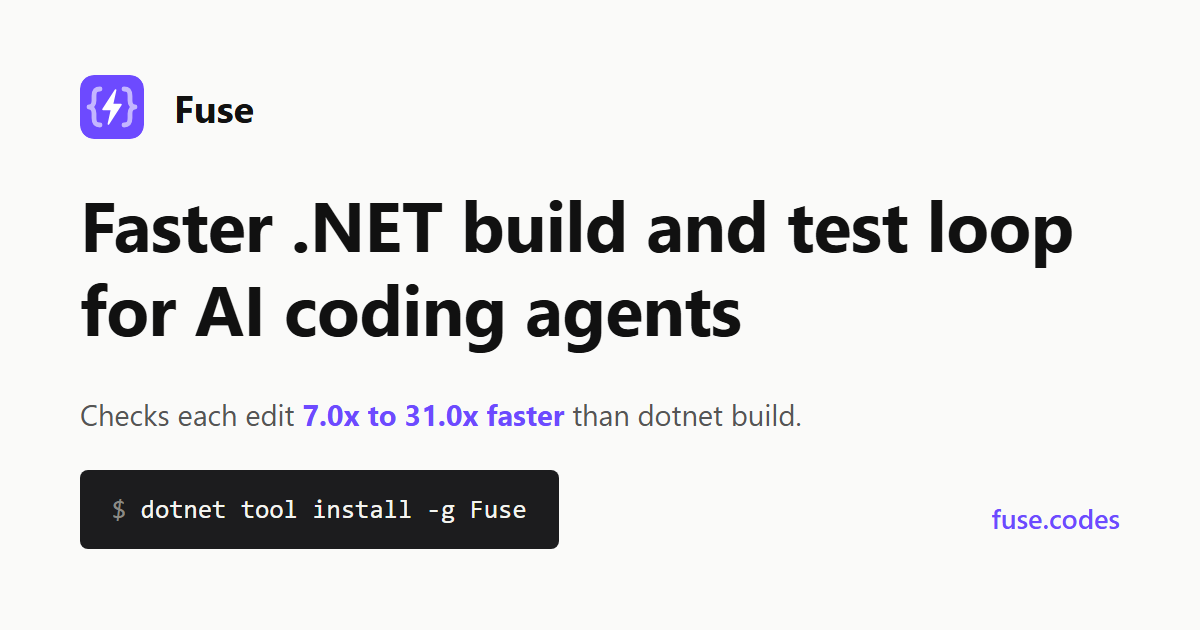
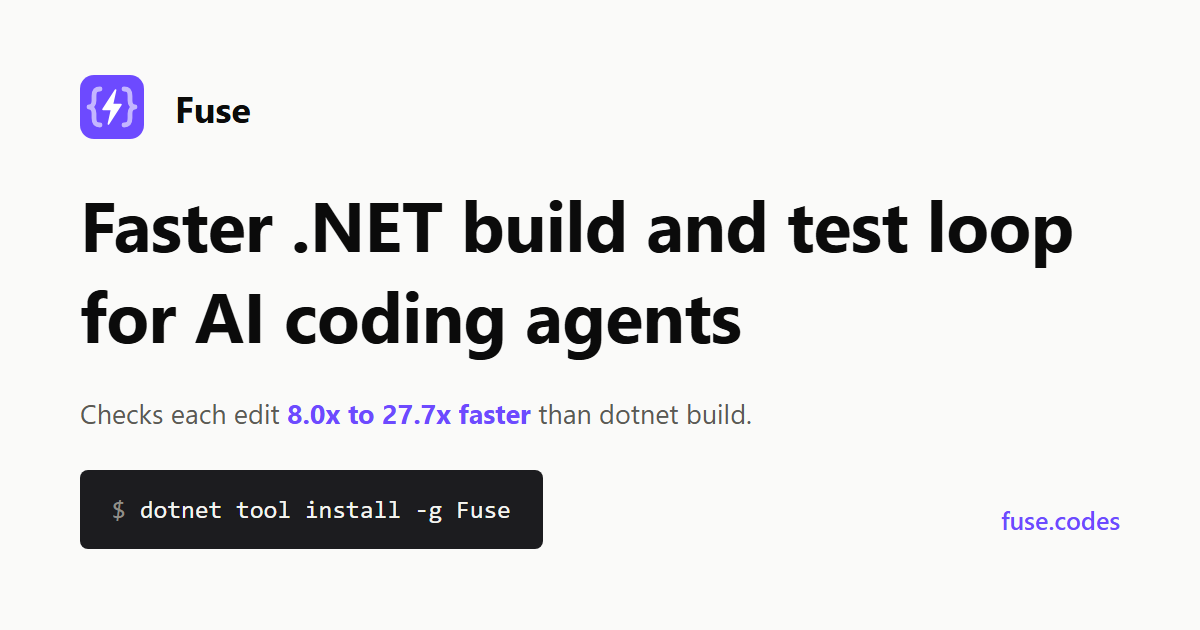
Docs: evals, README and overview for 5.7.0; a new share image
The evals page matches the eval code and workflows, and says a capped
answer is classified on its results file. The README, the docs overview
and llms.txt quote the 5.7.0 result files. CONTRIBUTING sends evals to
GitHub Actions through targeted runs. HEAD is named HEAD, not the last
commit. The share image quotes the 5.7.0 check range.

Assisted-by: Claude Code (claude-opus-5-5)
Assisted-by: Muse Code (muse-spark-1.3-contributor)

diff --git a/site/docs/evals.html b/site/docs/evals.html
@@ -137,7 +137,7 @@
 dotnet run --project evals/Fuse.Evals -c Release -- correctness fixture --mutations 2</code></pre>
     <pre data-label="Output"><code>repo &lt;fuse&gt;\evals\.work\fixture, solution Fixture.sln: 3 code project(s), 2 test project(s); fuse &lt;fuse&gt;\src\Fuse\bin\Release\net10.0\fuse.exe
 [correctness] fixture: HEAD build...
-[correctness] HEAD build exit 0, 0 error(s), 1.1 s
+[correctness] HEAD build exit 0, 0 error(s) in the truth (local)
 [correctness] fuse warm-up: fuse: no errors introduced (0 file(s) checked) (1158 ms)
 [correctness] 1/2 agree-clean  truth=  0 fuse=  0   5184 ms  change-return-type src/Services/ReportBuilder.cs
 [correctness] 2/2 agree        truth=  2 fuse=  4    505 ms  remove-member src/Services/OrderService.cs
@@ -177,7 +177,7 @@ usage: Fuse.Evals &lt;suite&gt; &lt;repo&gt; [--mutations N] [--seed S] [--solut
          the test rounds; agents, the multi-agent scenario after the cold checks and body edits
   --failed-rounds: for selection on fixture, three fix-and-rerun rounds with fuse test --failed afterwards
   --projects, --files, --changed: for scale, the fixture size: projects, files per project, changed files
-  clone: FluentValidation | NodaTime | Jellyfin | Polly, checked out at the pinned commit under
+  clone: NodaTime | Jellyfin | Polly, checked out at the pinned commit under
          %LOCALAPPDATA%/fuse/evals/repos (outside this repository, so its build settings do not leak in)
   clean: deletes %LOCALAPPDATA%/fuse/evals, which holds every checkout; the generated fixture in
          evals/.work/fixture and the result files in evals/results stay</code></pre>
@@ -240,7 +240,7 @@ usage: Fuse.Evals &lt;suite&gt; &lt;repo&gt; [--mutations N] [--seed S] [--solut
       <li>The truth side runs <code>dotnet build</code> on the solution with the case's edits, and takes the build's errors beyond HEAD's as the truth.</li>
       <li>The suite builds HEAD, then for each case makes the edits, runs <code>fuse check</code> on the edited files, resets the tree, and matches Fuse's errors with the truth by position (file, line and column).</li>
     </ol>
-    <p>A Fuse error at a truth position with a different id or message is a message mismatch. A Fuse error with no truth at its position is unverifiable when it is in a project MSBuild skipped because a project it references failed, deferred when the compiler skipped it (see <a href="benchmarks.html#reading-the-numbers">Benchmarks</a>), and contradicted otherwise. A truth error without a Fuse error at its position is missed. Each case gets a verdict:</p>
+    <p>A Fuse error at a truth position with a different id or message is a message mismatch. A Fuse error with no truth at its position is unverifiable when it is in a project MSBuild skipped because a project it references failed, deferred when the compiler skipped it (see <a href="benchmarks.html#reading-the-numbers">Benchmarks</a>), which includes the flow analysis errors the compiler places on a declaration (CS0161, CS0171, CS0177 and CS0843), and contradicted otherwise. A truth error without a Fuse error at its position is missed. Each case gets a verdict:</p>
     <table>
       <thead><tr><th scope="col">Verdict</th><th scope="col">Meaning</th></tr></thead>
       <tbody>
@@ -255,14 +255,14 @@ usage: Fuse.Evals &lt;suite&gt; &lt;repo&gt; [--mutations N] [--seed S] [--solut
       </tbody>
     </table>
 
-    <p>Each case also records what the check cost: how many files it checked, how many documents binding them bound, whether it bound whole projects, whether it answered from the answer it kept, and for how many files it reused the errors of an earlier check. A capped answer proves its completeness with its results file: the file holds every error the summary counts, and a missing file or a short count is a <code>results-incomplete</code> verdict rather than a silent gap.</p>
+    <p>Each case also records what the check cost: how many files it checked, how many documents binding them bound, whether it bound whole projects, whether it answered from the answer it kept, and for how many files it reused the errors of an earlier check. A capped answer proves its completeness with its results file: the file holds every error the summary counts, and a missing file or a short count is a <code>results-incomplete</code> verdict rather than a silent gap. When the file is complete, the case is classified on the file's errors, not on the ones the answer printed, so an error the answer left out of its printed list is not counted as missed.</p>
 
     <h3 id="test-selection">Test selection <a class="anchor" href="#test-selection" aria-label="Link to this section">#</a></h3>
     <p>The selection suite measures whether <code>fuse test</code> runs every test a change makes fail.</p>
     <ol>
       <li>The truth side builds the solution at HEAD, runs every test project with <code>dotnet test</code> one at a time, and stops when a test project writes no results, because a missing project would hide misses.</li>
       <li>Each case is one behavior edit in a method body of a code project: flipping a comparison, shifting an integer constant by one, dropping a statement, or negating a boolean return. An edit with which the solution does not build is skipped when the plan is drawn.</li>
-      <li>For each case, the truth side runs one <code>dotnet test</code> of the whole solution, as a user runs it after an edit: it builds what changed and runs the test projects in parallel. Its time is the <code>dotnet test</code> time the benchmarks quote. The truth is the tests that fail after the edit and did not fail at HEAD. A case whose run wrote fewer TRX files than HEAD's is listed in <code>projectsWithoutResults</code>.</li>
+      <li>For each case, the truth side runs one <code>dotnet test</code> of the whole solution, as a user runs it after an edit: it builds what changed and runs the test projects in parallel. Its time is the <code>dotnet test</code> time the benchmarks quote. The truth is the tests that fail after the edit and did not fail at HEAD. A case whose run produced fewer result units than HEAD's, TRX files or executed test assemblies on Microsoft.Testing.Platform, is listed in <code>projectsWithoutResults</code>.</li>
       <li>The suite builds HEAD, then for each case makes the edit, waits 500 ms, runs <code>fuse test</code>, and resets the tree.</li>
     </ol>
     <p>A case is <code>caught</code> when every truth failure is among the failures <code>fuse test</code> printed, <code>missed</code> when one is not, <code>no-failure</code> when the edit failed no test, <code>unverified</code> when a truth failure is not printed because <code>fuse test</code> cut its list of names (<code>... and N more</code>), and <code>results-incomplete</code> when a capped answer's results file does not hold every failure the summary counts.</p>
@@ -314,7 +314,7 @@ usage: Fuse.Evals &lt;suite&gt; &lt;repo&gt; [--mutations N] [--seed S] [--solut
     <p>The stop should deliver no stale error: the fix is already on disk when it runs, so anything it delivers beyond the current tree's errors is a defect. The result file records the post-edit, check and stop errors, whether the stop blocked, the stale errors it delivered, and whether it rechecked.</p>
 
     <h2 id="on-github-actions">On GitHub Actions <a class="anchor" href="#on-github-actions" aria-label="Link to this section">#</a></h2>
-    <p>Times depend on what else the machine is doing, so the recorded results come from <code>.github/workflows/evals.yml</code>, which runs every job on a fresh <code>windows-latest</code> runner that runs nothing else. Add the <code>evals</code> label to a pull request to run the latency and analyzers suites on the four open-source repositories. Start the workflow from the Actions tab to choose: its <code>repos</code> input names the repositories as a JSON array, default <code>["FluentValidation", "NodaTime", "Jellyfin", "Polly"]</code>, and its <code>suites</code> input names the suites as a JSON array, default <code>["correctness", "selection", "latency"]</code>. To run one suite on one repository, start it with <code>repos</code> as <code>["NodaTime"]</code> and <code>suites</code> as <code>["latency"]</code>. The attribution, analyzers and scale suites run only when the suites input names them. Its <code>fresh-truth</code> input ignores the cached truth, for a run after a flaky test made a truth answer wrong. <a href="#what-to-run">What to run</a> says which suites a change needs.</p>
+    <p>Times depend on what else the machine is doing, so the recorded results come from <code>.github/workflows/evals.yml</code>, which runs every job that measures on a fresh <code>windows-latest</code> runner that runs nothing else. Add the <code>evals</code> label to a pull request to run the latency and analyzers suites on the four open-source repositories. Start the workflow from the Actions tab to choose: its <code>repos</code> input names the repositories as a JSON array, default <code>["FluentValidation", "NodaTime", "Jellyfin", "Polly"]</code>, and its <code>suites</code> input names the suites as a JSON array, default <code>["correctness", "selection", "latency"]</code>. To run one suite on one repository, start it with <code>repos</code> as <code>["NodaTime"]</code> and <code>suites</code> as <code>["latency"]</code>. The attribution, analyzers and scale suites run only when the suites input names them. Its <code>fresh-truth</code> input ignores the cached truth, for a run after a flaky test made a truth answer wrong. Its <code>latency_parts</code> input names the latency parts as a JSON array, default <code>["main", "agents"]</code>, and one part alone skips the merge. <a href="#what-to-run">What to run</a> says which suites a change needs.</p>
     <ul>
       <li><strong>Build.</strong> One job builds Fuse and publishes the native client, and every other job downloads that build, so every result file records the same <code>fuseBuild</code>.</li>
       <li><strong>Latency.</strong> Two jobs per repository run the latency suite with the native client: one the checks and the test rounds, followed by the checks alone with the managed client on the same runner, the other the multi-agent scenario. A merge job puts the multi-agent result into the first job's file.</li>
@@ -322,7 +322,7 @@ usage: Fuse.Evals &lt;suite&gt; &lt;repo&gt; [--mutations N] [--seed S] [--solut
       <li><strong>Scale.</strong> One job generates the scale fixture, changes a quarter of its files, and measures one cold check with the native client, uploading <code>evals-scale-fixture-scale</code>. Like the attribution job, it runs only when the suites input names it.</li>
       <li><strong>Measure.</strong> One job per suite and repository merges the shards with the cached truth, measures Fuse on its own runner, writes the result file, and saves the merged truth to the cache. Each suite and repository is its own call of <code>.github/workflows/evals-suite.yml</code>, so a measure job starts as soon as its own shards finish, not when the slowest repository's do.</li>
     </ul>
-    <p>A measure or latency job's artifact <code>evals-&lt;repo&gt;-&lt;suite&gt;</code> holds <code>results/</code>, the file to commit to <code>evals/results</code> in place of the older one, <code>managed/</code>, the managed client's latency file, which goes to <code>evals/results/managed</code> in the same way and is the comparison <a href="benchmarks.html#native-client">Benchmarks</a> quotes, <code>truth/</code>, the merged truth, and <code>runner.txt</code>, which names the runner image, processor, memory and SDK. Each truth shard's artifact holds its shard and its own <code>runner.txt</code>, and a latency artifact also holds <code>runner-agents.txt</code>, the runner of the multi-agent scenario. Runners of the same image can have different processors, so compare two builds within one job, as the latency jobs do, rather than across jobs.</p>
+    <p>A measure job's artifact <code>evals-&lt;repo&gt;-&lt;suite&gt;</code> holds <code>results/</code>, the file to commit to <code>evals/results</code> in place of the older one, <code>truth/</code>, the merged truth, <code>engine-logs/</code>, the engine and hook logs of the measured repository, and <code>runner.txt</code>, which names the runner image, processor, memory and SDK. The merged latency artifact <code>evals-&lt;repo&gt;-latency</code> holds <code>results/</code> and <code>managed/</code>, the managed client's latency file, which goes to <code>evals/results/managed</code> in the same way and is the comparison <a href="benchmarks.html#native-client">Benchmarks</a> quotes, with <code>runner.txt</code> and <code>runner-agents.txt</code>, the runner of the multi-agent scenario; the per-part latency artifacts also hold <code>engine-logs/</code>. Each truth shard's artifact holds its shard and its own <code>runner.txt</code>. Runners of the same image can have different processors, so compare two builds within one job, as the latency jobs do, rather than across jobs.</p>
 
     <h2 id="result-files">Result files <a class="anchor" href="#result-files" aria-label="Link to this section">#</a></h2>
     <p>A suite writes <code>evals/results/&lt;suite&gt;-&lt;repo&gt;-&lt;yyyyMMdd-HHmm&gt;.json</code>, with the local time of the run. The repository keeps only the newest file of each suite and repository; older files stay in git history. Every file records:</p>
@@ -333,9 +333,9 @@ usage: Fuse.Evals &lt;suite&gt; &lt;repo&gt; [--mutations N] [--seed S] [--solut
       <li><code>treeCleanAfter</code>: whether the suite left the working tree clean.</li>
     </ul>
     <p><strong>Correctness files</strong> also hold <code>seed</code>, <code>requested</code> and <code>cases</code>; <code>breaking</code> and <code>neutral</code> (cases whose build reported errors beyond HEAD's, or none); <code>falseGreen</code>, <code>falseRedCases</code>, <code>falseRedErrors</code> (contradicted errors), <code>partialMisses</code>, <code>exactAgreement</code> and <code>fileAgreement</code> (cases whose errors are in the same files); <code>unverifiableErrors</code>, <code>deferredByCompilerErrors</code> and <code>messageMismatchErrors</code>; <code>causeLines</code>, <code>causeBytes</code> and <code>outputBytes</code> (cause lines, their size and the whole output's size); the sums <code>filesChecked</code>, <code>documentsBound</code> and <code>filesWithReusedErrors</code>, and <code>keptAnswerHits</code>; <code>fuseUnanswered</code> (cases where <code>fuse check</code> exited with neither 0 nor 1); <code>unmeasuredCases</code>, <code>resultsIncompleteCases</code> and <code>cappedCasesComplete</code> (whether every capped answer's results file holds every error); <code>fuseMedianMs</code> and <code>buildMedianSeconds</code>; <code>fuseStats</code> and <code>dotnetStats</code> (see below); <code>headBuildErrors</code>; <code>truthKey</code> and <code>truthOrigins</code>; and <code>details</code>, one object per case with its edits, the truth and Fuse errors, each classification list, its verdict, its times, and what the check cost: <code>filesChecked</code>, <code>documentsBound</code> (0 for a kept answer), <code>wholeProjectsBound</code>, <code>keptAnswerHit</code>, <code>filesWithReusedErrors</code>, <code>printedErrors</code>, <code>totalErrors</code> and <code>resultsFileErrors</code>.</p>
-    <p><strong>Selection files</strong> also hold <code>seed</code>, <code>requested</code>, <code>cases</code>, <code>withFailures</code>, <code>missedCases</code>, <code>unverifiedCases</code>, <code>missedTests</code> and <code>unverifiedTests</code>; <code>totalTests</code> (the tests in a full run at HEAD); <code>meanSelectedFraction</code> (the mean share of those tests <code>fuse test</code> ran) and <code>meanRunFraction</code> (the same share from the runs' own failed-plus-passed counts); the sums <code>testsSelected</code>, <code>testsRun</code>, <code>projectsPlanned</code>, <code>projectsRun</code>, <code>shadowRuns</code>, <code>msbuildRuns</code>, <code>wholeProjectRuns</code> and <code>testProcesses</code>; <code>resultsIncompleteCases</code> and <code>cappedCasesComplete</code>; <code>casesWithNoCodeChange</code> and <code>testsAvoidedByNoCodeChange</code>; <code>noCodeCases</code> (fixture only; <code>comment</code> and <code>local-rename</code>, each with its kind, file, whether the code changed, tests selected and run, and verdict) with <code>noCodeCasesSkipped</code>; <code>failedRounds</code> (per round <code>round</code>, <code>failedBefore</code>, <code>affectedTests</code>, <code>rerunTests</code>, <code>testsAvoided</code>, <code>affectedSeconds</code>, <code>fuseSeconds</code> and <code>ranNothing</code>; totals <code>totalTestsAvoided</code> and <code>totalRoundsAvoidedSeconds</code>) with <code>failedRoundsSkipped</code>; <code>fuseMedianSeconds</code> and <code>dotnetMedianSeconds</code>; <code>fuseStats</code> and <code>dotnetStats</code>; <code>skippedNonCompiling</code> and <code>projectsWithoutResults</code>; <code>truthKey</code> and <code>truthOrigins</code> (the key of the truth and where its answers were measured); and <code>details</code>, one object per case with its edit, the truth and Fuse failures, Fuse's counts and summary line (<code>fuseSummary</code>), the misses, both times, its verdict, and what the run planned and ran: <code>testsSelected</code>, <code>testsRun</code> (failed plus passed), <code>projectsPlanned</code>, <code>projectsRun</code>, <code>totalProjects</code>, <code>shadowRuns</code>, <code>msbuildRuns</code>, <code>wholeProjectRuns</code>, <code>wholeProjectReasons</code>, <code>filterCollapses</code>, <code>testProcesses</code> (one per shadow assembly and per MSBuild run, one per platform project), <code>printedFailures</code>, <code>totalFailures</code>, <code>resultsFileFailures</code>, <code>codeChanged</code> and <code>candidatesBound</code> (null unless the engine logs a member-walk line).</p>
+    <p><strong>Selection files</strong> also hold <code>seed</code>, <code>requested</code>, <code>cases</code>, <code>withFailures</code>, <code>missedCases</code>, <code>unverifiedCases</code>, <code>missedTests</code> and <code>unverifiedTests</code>; <code>totalTests</code> (the tests in a full run at HEAD); <code>meanSelectedFraction</code> (the mean share of those tests <code>fuse test</code> ran) and <code>meanRunFraction</code> (the same share from the runs' own failed-plus-passed counts); the sums <code>testsSelected</code>, <code>testsRun</code>, <code>projectsPlanned</code>, <code>projectsRun</code>, <code>shadowRuns</code>, <code>msbuildRuns</code>, <code>wholeProjectRuns</code> and <code>testProcesses</code>; <code>resultsIncompleteCases</code> and <code>cappedCasesComplete</code>; <code>casesWithNoCodeChange</code> and <code>testsAvoidedByNoCodeChange</code>; <code>noCodeCases</code> (fixture only; <code>comment</code> and <code>local-rename</code>, each with its kind, file, whether the code changed, tests selected and run, how many symbols the member walk visited, and verdict) with <code>noCodeCasesSkipped</code>; <code>failedRounds</code> (per round <code>round</code>, <code>failedBefore</code>, <code>affectedTests</code>, <code>rerunTests</code>, <code>testsAvoided</code>, <code>affectedSeconds</code>, <code>fuseSeconds</code> and <code>ranNothing</code>; totals <code>totalTestsAvoided</code> and <code>totalRoundsAvoidedSeconds</code>) with <code>failedRoundsSkipped</code>; <code>fuseMedianSeconds</code> and <code>dotnetMedianSeconds</code>; <code>fuseStats</code> and <code>dotnetStats</code>; <code>skippedNonCompiling</code> and <code>projectsWithoutResults</code>; <code>truthKey</code> and <code>truthOrigins</code> (the key of the truth and where its answers were measured); and <code>details</code>, one object per case with its edit, the truth and Fuse failures, Fuse's counts and summary line (<code>fuseSummary</code>), the misses, both times, its verdict, and what the run planned and ran: <code>testsSelected</code>, <code>testsRun</code> (failed plus passed), <code>projectsPlanned</code>, <code>projectsRun</code>, <code>totalProjects</code>, <code>shadowRuns</code>, <code>msbuildRuns</code>, <code>wholeProjectRuns</code>, <code>wholeProjectReasons</code>, <code>filterCollapses</code>, <code>testProcesses</code> (one per shadow assembly and per MSBuild run, one per planned project with no mode line), <code>printedFailures</code>, <code>totalFailures</code>, <code>resultsFileFailures</code>, <code>codeChanged</code> and <code>candidatesBound</code> (null when the engine logged no <code>test selection:</code> line).</p>
     <p><strong>Latency files</strong> also hold the <code>target</code> file and <code>method</code> and <code>referencingFilesInOtherProjects</code>; <code>coldCleanMs</code> and <code>coldBodyEditMs</code>; <code>part</code>, the <code>--part</code> it ran, whose unmeasured fields are null; <code>bodyEdit</code>, <code>signatureEdit</code>, <code>warmUnchanged</code> and <code>testRound</code>, each <code>p50</code>, <code>p95</code>, <code>max</code> and <code>n</code> in milliseconds; <code>signatureEditSample</code>, the summary line of the first signature edit; <code>bodyEditPhases</code>, <code>signatureEditPhases</code>, <code>warmUnchangedPhases</code> and <code>testRoundPhases</code>, the same statistics per engine phase plus <code>outsideEngine</code>, the time the client spent outside the engine's request; <code>multiAgent</code>, with <code>writers</code> (whose <code>unanswered</code> counts checks that exited 2 and <code>notRun</code> checks that exited with any other code outside 0 and 1), <code>builds</code>, <code>rounds</code>, <code>scopeOnly</code> (the directory, project and <code>--no-build</code> forms, each with <code>form</code>, <code>arg</code>, <code>projectsPlanned</code>, <code>testsSelected</code>, <code>mode</code> and <code>ms</code>), <code>plainRun</code>, <code>wholeRun</code> (the same edit with <code>--all</code>, executed) and <code>scopeRefusal</code> (<code>arg</code>, <code>refused</code>, <code>exitCode</code>), <code>attribution</code> (one pair, as attribution files hold them; null when no method has a caller in another project whose break the check reports), <code>stops</code> (<code>changedFiles</code>, the files that differ from HEAD; <code>firstMs</code>, the first check of them; <code>repeat</code>, the repeated checks as <code>p50</code>, <code>p95</code>, <code>max</code> and <code>n</code>; <code>mostReused</code>, the most files one repeat kept the errors of), <code>stopsUnchangedRepeat</code> (each an object with <code>ms</code> and <code>documentsBound</code>) and <code>tests</code> (<code>edit</code>, the edited file; <code>aloneMs</code>, one <code>fuse test</code> on its own; <code>pairWallMs</code>, from the start of two clients started together until both ended; <code>pairEach</code>, each of the two runs; <code>notPassed</code>, the runs of the three that exited with a code other than 0); files from before 5.4.0 have no <code>stops</code> and <code>tests</code>; <code>noCodeChange</code>, with <code>edits</code> (per edit <code>kind</code>, <code>checkMs</code>, <code>filesChecked</code>, <code>checkErrors</code>, <code>testMs</code>, <code>testsSelected</code>, <code>testsRun</code>, <code>noCodeChange</code> and <code>note</code>), <code>check</code> and <code>testRound</code> statistics and <code>checkPhases</code> and <code>testRoundPhases</code> (the test side null where the part runs no tests); and the engine's memory in megabytes: <code>engineWorkingSetMb</code>, its working set right after the test rounds, <code>enginePeakWorkingSetMb</code>, the largest working set the engine that served the warm checks and test rounds reached, and <code>engineIdleWorkingSetMb</code>, its working set 50 seconds later, after it has returned the memory its requests freed.</p>
-    <p><strong>Attribution files</strong> hold <code>pairs</code>, each with the <code>renamedIn</code> file, the <code>method</code>, the <code>brokenIn</code> file, <code>ownWithoutSessions</code>, <code>otherWithoutSessions</code>, <code>ownWithSessions</code>, <code>otherWithSessions</code>, <code>leftToOtherSessions</code>, and <code>msWithoutSessions</code> and <code>msWithSessions</code>, the wall time of both writers' hooks in each arm; the same counts summed over the pairs; the statistics of each arm's time; <code>external</code>, one pair with the <code>renamedIn</code> file, the <code>method</code>, the <code>brokenIn</code> file, <code>otherWithRegistration</code>, <code>blockedWhileRegistered</code>, <code>blockedAfterEnd</code>, <code>expiredShielding</code> (always null: registrations expire after 4 hours, which the suite does not wait out), <code>msWithRegistration</code>, <code>msAfterEnd</code> and <code>note</code>, with <code>externalSkipped</code>; and <code>treeCleanAfter</code>.</p>
+    <p><strong>Attribution files</strong> hold <code>pairs</code>, each with the <code>renamedIn</code> file, the <code>method</code>, the <code>brokenIn</code> file, <code>ownWithoutSessions</code>, <code>otherWithoutSessions</code>, <code>ownWithSessions</code>, <code>otherWithSessions</code>, <code>leftToOtherSessions</code>, and <code>msWithoutSessions</code> and <code>msWithSessions</code>, the wall time of both writers' hooks in each arm; the same counts summed over the pairs; the statistics of each arm's time; <code>external</code>, a list holding one pair with the <code>renamedIn</code> file, the <code>method</code>, the <code>brokenIn</code> file, <code>otherWithRegistration</code>, <code>blockedWhileRegistered</code>, <code>blockedAfterEnd</code>, <code>expiredShielding</code> (always null: registrations expire after 4 hours, which the suite does not wait out), <code>msWithRegistration</code>, <code>msAfterEnd</code> and <code>note</code>, with <code>externalSkipped</code>; and <code>treeCleanAfter</code>.</p>
     <p><strong>Scale files</strong> hold <code>filesTotal</code>, <code>filesChanged</code>, <code>projectsTotal</code> and <code>projectsLoaded</code>; <code>checkMs</code>, <code>filesChecked</code> and <code>wholeProjectsBound</code>; <code>enginePeakWorkingSetMb</code> and <code>engineIdleWorkingSetMb</code>; <code>scaleFactor</code> (15000 divided by the files, 2.5 at the recorded size), <code>checkMsPer1kChanged</code> and <code>verdict</code>. Full-scale numbers are extrapolated with the factor, never quoted as measured.</p>
     <p><strong>Stale files</strong> hold the <code>target</code> file; <code>postEditErrors</code> and <code>postEditMs</code>; <code>checkErrors</code> and <code>checkMs</code>; <code>stopErrors</code>, <code>stopMs</code> and <code>stopBlocked</code>; <code>staleDelivered</code> (stop errors absent from a fresh check; 0 means the stop rechecked), <code>staleLines</code> and <code>rechecked</code>.</p>
     <p><strong>Analyzers files</strong> hold <code>files</code>, the app project's file count; <code>compilationWide</code>, whether the engine log names the analyzer compilation-wide, and <code>planLine</code>, that log line; <code>coldCheckMs</code>; <code>postEditHook</code>, <code>checkOneFile</code> and <code>checkManyFiles</code> (over <code>manyFiles</code> files), each <code>p50</code>, <code>p95</code>, <code>max</code> and <code>n</code> in milliseconds; <code>reportedByCheck</code> and <code>leftOutByHook</code>, the two answers to the forbidden class; and <code>enginePeakWorkingSetMb</code> and <code>engineIdleWorkingSetMb</code>.</p>

diff --git a/site/docs/index.html b/site/docs/index.html
@@ -124,7 +124,7 @@
     <h2 id="the-problem">Why Fuse exists <a class="anchor" href="#the-problem" aria-label="Link to this section">#</a></h2>
     <p>An AI agent checks its work by running <code>dotnet build</code> and <code>dotnet test</code>, often dozens of times in one task. That is slow and noisy:</p>
     <ul>
-      <li><strong>Every build starts from scratch.</strong> The median build took 2.38 s to 20.4 s on the benchmark repositories, and the agent waits for it after every edit.</li>
+      <li><strong>Every build starts from scratch.</strong> The median build took 1.66 s to 28.7 s on the benchmark repositories, and the agent waits for it after every edit.</li>
       <li><strong>A build lists every error.</strong> Errors that were there before the agent started show up too, and the agent has to guess which ones are its own.</li>
       <li><strong>A test run runs every test</strong> and prints the passing ones too.</li>
       <li><strong>Subagents make it worse.</strong> Several builds at once use a lot of memory and fail on each other's locked files in <code>obj</code> and <code>bin</code>.</li>
@@ -132,7 +132,7 @@
     <p>Fuse is built for agents, not for people. Its output is only what an agent needs to act on, and the agent's tool runs it automatically.</p>
 
     <h2 id="what-fuse-does">What your agent gets <a class="anchor" href="#what-fuse-does" aria-label="Link to this section">#</a></h2>
-    <p>Fuse keeps your solution loaded in a background process, the <strong>engine</strong>, and compares your files with the last commit. After an edit:</p>
+    <p>Fuse keeps your solution loaded in a background process, the <strong>engine</strong>, and compares your files with HEAD, the commit you have checked out. After an edit:</p>
     <ol class="flow" aria-label="What happens after an edit">
       <li><b>The agent edits a file</b><span>for example, it renames <code>Calc.Add</code> to <code>Plus</code>.</span></li>
       <li><b>The hook runs Fuse</b><span>with the name of the edited file.</span></li>
@@ -140,23 +140,23 @@
       <li><b>The agent reads the result</b><span>the two callers that broke, or nothing when the edit is clean.</span></li>
     </ol>
     <ul>
-      <li><strong>Faster checks.</strong> 7.0x to 43.7x faster than <code>dotnet build</code> on four open-source repositories (<a href="benchmarks.html">Benchmarks</a>). A change inside a method body is checked in the edited file only.</li>
-      <li><strong>Only affected tests.</strong> 1.1x to 4.9x faster than <code>dotnet test</code>. When only <code>.cs</code> files changed, tests run without a rebuild.</li>
-      <li><strong>Only new errors.</strong> Errors that were already in the last commit are not reported.</li>
+      <li><strong>Faster checks.</strong> 8.0x to 27.7x faster than <code>dotnet build</code> on four open-source repositories (<a href="benchmarks.html">Benchmarks</a>). A change inside a method body is checked in the edited file only.</li>
+      <li><strong>Only affected tests.</strong> 1.2x to 2.9x faster than <code>dotnet test</code>, except on NodaTime where the median run was slower. When only <code>.cs</code> files changed, tests run without a rebuild.</li>
+      <li><strong>Only new errors.</strong> Errors that were already in HEAD are not reported.</li>
       <li><strong>Breaks in other projects.</strong> Each broken caller is listed with the change that broke it.</li>
       <li><strong>Short output.</strong> At most 20 errors or 10 test failures, plus one summary line. Nothing when the edit is clean.</li>
       <li><strong>Made for subagents.</strong> All agents in a repository share one engine, so the solution is loaded once. Builds through Fuse take turns: parallel builds hit 0 locked-file errors in the benchmarks. Each git worktree gets its own engine, so agents in different worktrees never wait for each other.</li>
+      <li><strong>Made for judges and workers.</strong> External writers register their paths as sessions, the judge checks one slice with <code>fuse check</code> on a folder, and <code>--json</code> errors split into briefs.</li>
       <li><strong>Safe.</strong> If Fuse fails, the hook stays silent and the agent carries on. The stop hook sends the agent back at most once. Fuse never edits your code, runs locally and has no telemetry.</li>
       <li><strong>No configuration.</strong> <code>fuse init</code> is the only setup, and <code>dotnet tool update</code> works while Fuse runs.</li>
     </ul>
 
     <h2 id="what-fuse-costs">What Fuse costs <a class="anchor" href="#what-fuse-costs" aria-label="Link to this section">#</a></h2>
     <ul>
-      <li><strong>Memory.</strong> The engine keeps loaded projects in memory until it has been idle for 30 minutes: once idle, 339 MB on the 40-project Jellyfin and 1,019 MB on the 26-project Community Toolkit, and up to 1,763 MB while it checks, on runners with 16 GB of memory; the engine uses more on a machine with more memory (<a href="benchmarks.html">Benchmarks</a>). Each git worktree runs its own engine.</li>
-      <li><strong>A slow first check across projects.</strong> The first edit that affects other projects has to load them. On Jellyfin (40 projects) that took up to 131.4 s; the median signature edit took 86 ms.</li>
+      <li><strong>Memory.</strong> The engine keeps loaded projects in memory until it has been idle for 30 minutes: once idle, 319 MB on the 15-project NodaTime and 512 MB on the 4-project FluentValidation, and up to 1,091 MB while it checks, on runners with 16 GB of memory; the engine uses more on a machine with more memory (<a href="benchmarks.html">Benchmarks</a>). Each git worktree runs its own engine.</li>
+      <li><strong>A slow first check across projects.</strong> The first edit that affects other projects has to load them. On Jellyfin (40 projects) that took up to 68.9 s; the median signature edit took 58 ms.</li>
       <li><strong>One check at a time.</strong> Agents in the same repository wait for each other's checks.</li>
       <li><strong>Not a full build.</strong> Fuse checks C# only and picks tests by reading the code, so a few cases still need <code>fuse build</code> or <code>fuse test --all</code>. <a href="limits.html">Limits</a> lists them.</li>
-
     </ul>
 
     <h2 id="words">Words these pages use <a class="anchor" href="#words" aria-label="Link to this section">#</a></h2>

diff --git a/evals/Fuse.Evals/Program.cs b/evals/Fuse.Evals/Program.cs
@@ -38,7 +38,7 @@ internal static class Program
                  the test rounds; agents, the multi-agent scenario after the cold checks and body edits
           --failed-rounds: for selection on fixture, three fix-and-rerun rounds with fuse test --failed afterwards
           --projects, --files, --changed: for scale, the fixture size: projects, files per project, changed files
-          clone: NodaTime | Jellyfin | Polly, checked out at the pinned commit under
+          clone: FluentValidation | NodaTime | Jellyfin | Polly, checked out at the pinned commit under
                  %LOCALAPPDATA%/fuse/evals/repos (outside this repository, so its build settings do not leak in)
           clean: deletes %LOCALAPPDATA%/fuse/evals, which holds every checkout; the generated fixture in
                  evals/.work/fixture and the result files in evals/results stay

diff --git a/README.md b/README.md
@@ -12,8 +12,8 @@ AI agents check their work by running `dotnet build` and `dotnet test`, often do
 
 Fuse fixes that. It keeps your solution loaded in the background, and after each edit it tells the agent:
 
-- which compiler errors the edit caused, 7.0x to 43.7x faster than `dotnet build` at the median on four open-source repositories
-- which affected tests fail, up to 4.9x faster than `dotnet test`
+- which compiler errors the edit caused, 8.0x to 27.7x faster than `dotnet build` at the median on four open-source repositories
+- which affected tests fail, up to 2.9x faster than `dotnet test`
 
 Run `fuse init` once. After that, the agent's tool (Claude Code, Cursor, Codex and others) runs Fuse by itself.
 
@@ -23,7 +23,7 @@ Run `fuse init` once. After that, the agent's tool (Claude Code, Cursor, Codex a
 
 ## What you get
 
-- **Only new errors.** Errors that were already in the last commit are not reported, so the agent does not chase problems it did not cause.
+- **Only new errors.** Errors that were already in HEAD, the commit you have checked out, are not reported, so the agent does not chase problems it did not cause.
 - **Breaks in other projects.** Rename a method and Fuse lists every broken caller, in every project, with the change that broke it.
 - **Only affected tests.** Tests the change cannot reach do not run. When only `.cs` files changed, the tests run without a rebuild.
 - **Short output.** At most 20 errors or 10 test failures, plus one summary line. Nothing at all when the edit is clean.
@@ -34,8 +34,8 @@ Run `fuse init` once. After that, the agent's tool (Claude Code, Cursor, Codex a
 
 ## What it costs
 
-- **Memory.** Fuse keeps the loaded projects in memory until it has been idle for 30 minutes: 339 MB to 1,019 MB once idle in the [benchmarks](https://fuse.codes/docs/benchmarks), up to 1,763 MB while it checks, and more on a machine with more memory. Each git worktree uses its own.
-- **A slow first check across projects.** The first edit that affects other projects has to load them. On Jellyfin (40 projects) that took up to 131.4 s; the median signature edit took 86 ms.
+- **Memory.** Fuse keeps the loaded projects in memory until it has been idle for 30 minutes: 319 MB to 512 MB once idle in the [benchmarks](https://fuse.codes/docs/benchmarks), up to 1,091 MB while it checks, and more on a machine with more memory. Each git worktree uses its own.
+- **A slow first check across projects.** The first edit that affects other projects has to load them. On Jellyfin (40 projects) that took up to 68.9 s; the median signature edit took 58 ms.
 - **One check at a time.** Agents in the same repository wait for each other's checks.
 - **Not a full build.** Fuse checks C# only and picks tests by reading the code, so a few cases still need `fuse build` or `fuse test --all`. [Limits](https://fuse.codes/docs/limits) lists them.
 
@@ -102,7 +102,7 @@ fuse: 2 error(s) introduced in 2 file(s) (App, Lib.Tests); Lib declarations chan
 | --- | --- |
 | `fuse init [--instructions]` | Registers Fuse's hooks with the harnesses this repository uses; `--instructions` also adds a Fuse section to `AGENTS.md` |
 | `fuse uninit` | Removes what `fuse init` wrote, keeping every other entry, then stops this repository's engine and deletes its state |
-| `fuse check [paths...]` | Reports the errors your changes caused since the last commit, in every project; with directories or patterns it checks one slice |
+| `fuse check [paths...]` | Reports the errors your changes caused since HEAD, in every project; with directories or patterns it checks one slice |
 | `fuse test [args...]` | Runs the tests affected by your changes |
 | `fuse test --all` | Runs every test |
 | `fuse test --failed` | Reruns the tests that failed in the last run |

diff --git a/CONTRIBUTING.md b/CONTRIBUTING.md
@@ -17,7 +17,7 @@ Read [AGENTS.md](AGENTS.md) first: it covers the repository layout, the build, t
     ```
 
     A test you add must run: confirm that the test count went up.
-4. If the change touches checking, test selection or the path of a request, run the eval [Evals](https://fuse.codes/docs/evals#what-to-run) names for it, for example `dotnet run --project evals/Fuse.Evals -c Release -- correctness fixture`, and attach its result to the pull request.
+4. If the change touches checking, test selection or the path of a request, run the eval [Evals](https://fuse.codes/docs/evals#what-to-run) names for it as a targeted run through the GitHub CLI, for example `gh workflow run evals.yml --ref <branch> -f repos='["NodaTime"]' -f suites='["latency"]'`, and attach its result file to the pull request. Evals run on GitHub Actions, never on your machine: a local machine runs other work, so its numbers are not comparable. Commit the result files from the run's artifacts.
 5. Sign off every commit with the Developer Certificate of Origin: `git commit -s` adds the `Signed-off-by:` line that [DCO.txt](DCO.txt) describes. The DCO check fails a pull request with a commit whose sign-off does not match its author; `git rebase --signoff` adds the line to commits you already made.
 6. Open a pull request that says what changed and why, and which AI tools you used, as the [AI policy](https://fuse.codes/docs/ai-policy) asks. The template lists the gates and the sign-off.
 
